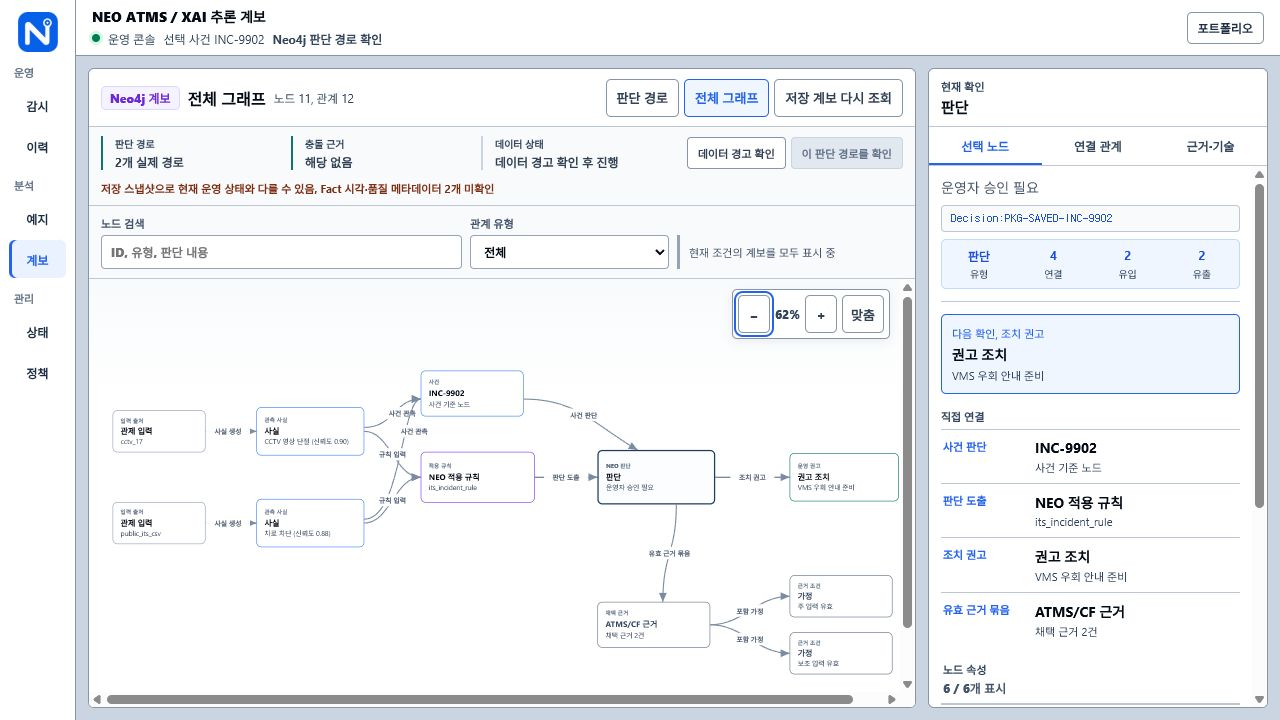
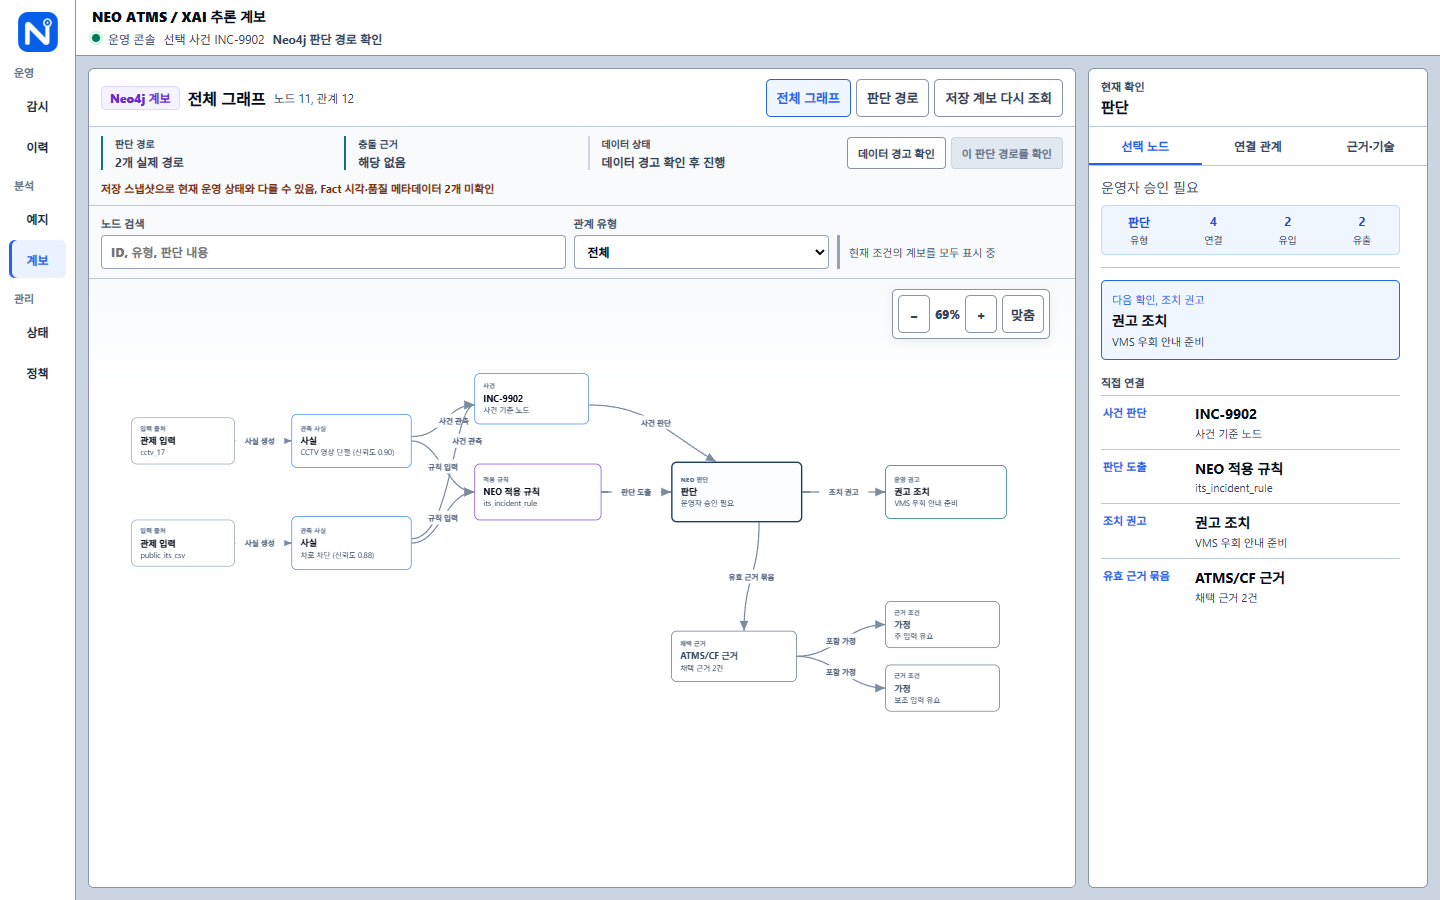
release: NEO v2.0.0 운영 UI 개선

diff --git a/docs/releases/NEO_V2.0.0.md b/docs/releases/NEO_V2.0.0.md
@@ -1,0 +1,48 @@
+# NEO v2.0.0 릴리즈 기록
+
+배포일: 2026-08-03  
+상태: GitHub, Docker Hub, AWS 배포 및 검증 완료  
+서비스 주소: `https://3-38-33-156.sslip.io/neo`
+
+## 릴리즈 범위
+
+- 감시 화면을 사건, 판단 근거, 현재 조치 중심으로 재구성
+- 보류·오탐 처리에 확인 절차와 운영자 사유 기록 추가
+- 계보 기본 화면을 전체 그래프로 고정하고 선택·판단 경로 전환 시 배치 유지
+- 예지·이상 분석에 단계별 진행 상태, 수치 축, 허용 범위와 결과 우선순위 적용
+- 이력·상태·정책 화면의 정보 밀도, 긴 식별자, 상세 열기 흐름 개선
+- 판단 설명과 예측 요청에 시간초과, 취소, 재시도 상태 추가
+- LSTM 요청별 재학습을 제거하고 기동 시 준비한 모델로 추론하도록 변경
+- PC·모바일 6개 화면과 선택·확인·취소·복귀 상호작용 재검증
+
+핵심 규칙 엔진과 Rule KB는 비공개로 유지하고, 공개 GitHub 저장소에는 화면과 설계·배포 문서만 게시했다.
+
+## 검증 결과
+
+| 항목 | 결과 |
+| --- | --- |
+| Python 단위 테스트 | 219개 통과 |
+| NEO Vue 프로덕션 빌드 | 통과 |
+| 공개 화면 6개 | 모두 HTTP 200 |
+| PC 화면 가로 넘침 | 0건 |
+| PC 화면 콘솔 오류 | 0건 |
+| 모바일 회귀 | 6개 화면 통과 |
+| 운영자 조치 확인 | 취소 시 미기록, 사유 입력 후 1건 기록 |
+| 공개 실시간 파이프라인 | 완료, 3.15초 |
+| NEO 판단 | `requires_operator_ack` |
+| Neo4j 동기화 | 20노드, 28관계 |
+| NEMI 검색 | 문서 2건 |
+
+## Docker Hub 이미지
+
+- `kimmj6466/neo-operator-frontend:v2.0.0` - `sha256:7e0da42b2f7f9773ed083f46be80945f04ec68cdd0e5be697f4bb82ddca37b03`
+- `kimmj6466/neo-operator-api:v2.0.0` - `sha256:0a3fb42d56bb7c83d1b2440e6825f172b8672dd330d4aefd158da34d05d19369`
+- `kimmj6466/neo-nemi-api:v2.0.0` - `sha256:b24e57e15d7e88d7d3350b7e180df92293e9a15cef3e8815a40aa25e2489b02c`
+
+AWS EC2는 위 다이제스트를 직접 참조한다.
+
+## 롤백 기준
+
+- 이전 이미지: `v1.0.0` 고정 다이제스트 3종
+- 이전 서버 설정: `~/neo-release-backups/pre-v2.0.0-20260802-201637`
+- Neo4j, Qdrant, 운영자 조치 데이터 볼륨은 유지했다.
